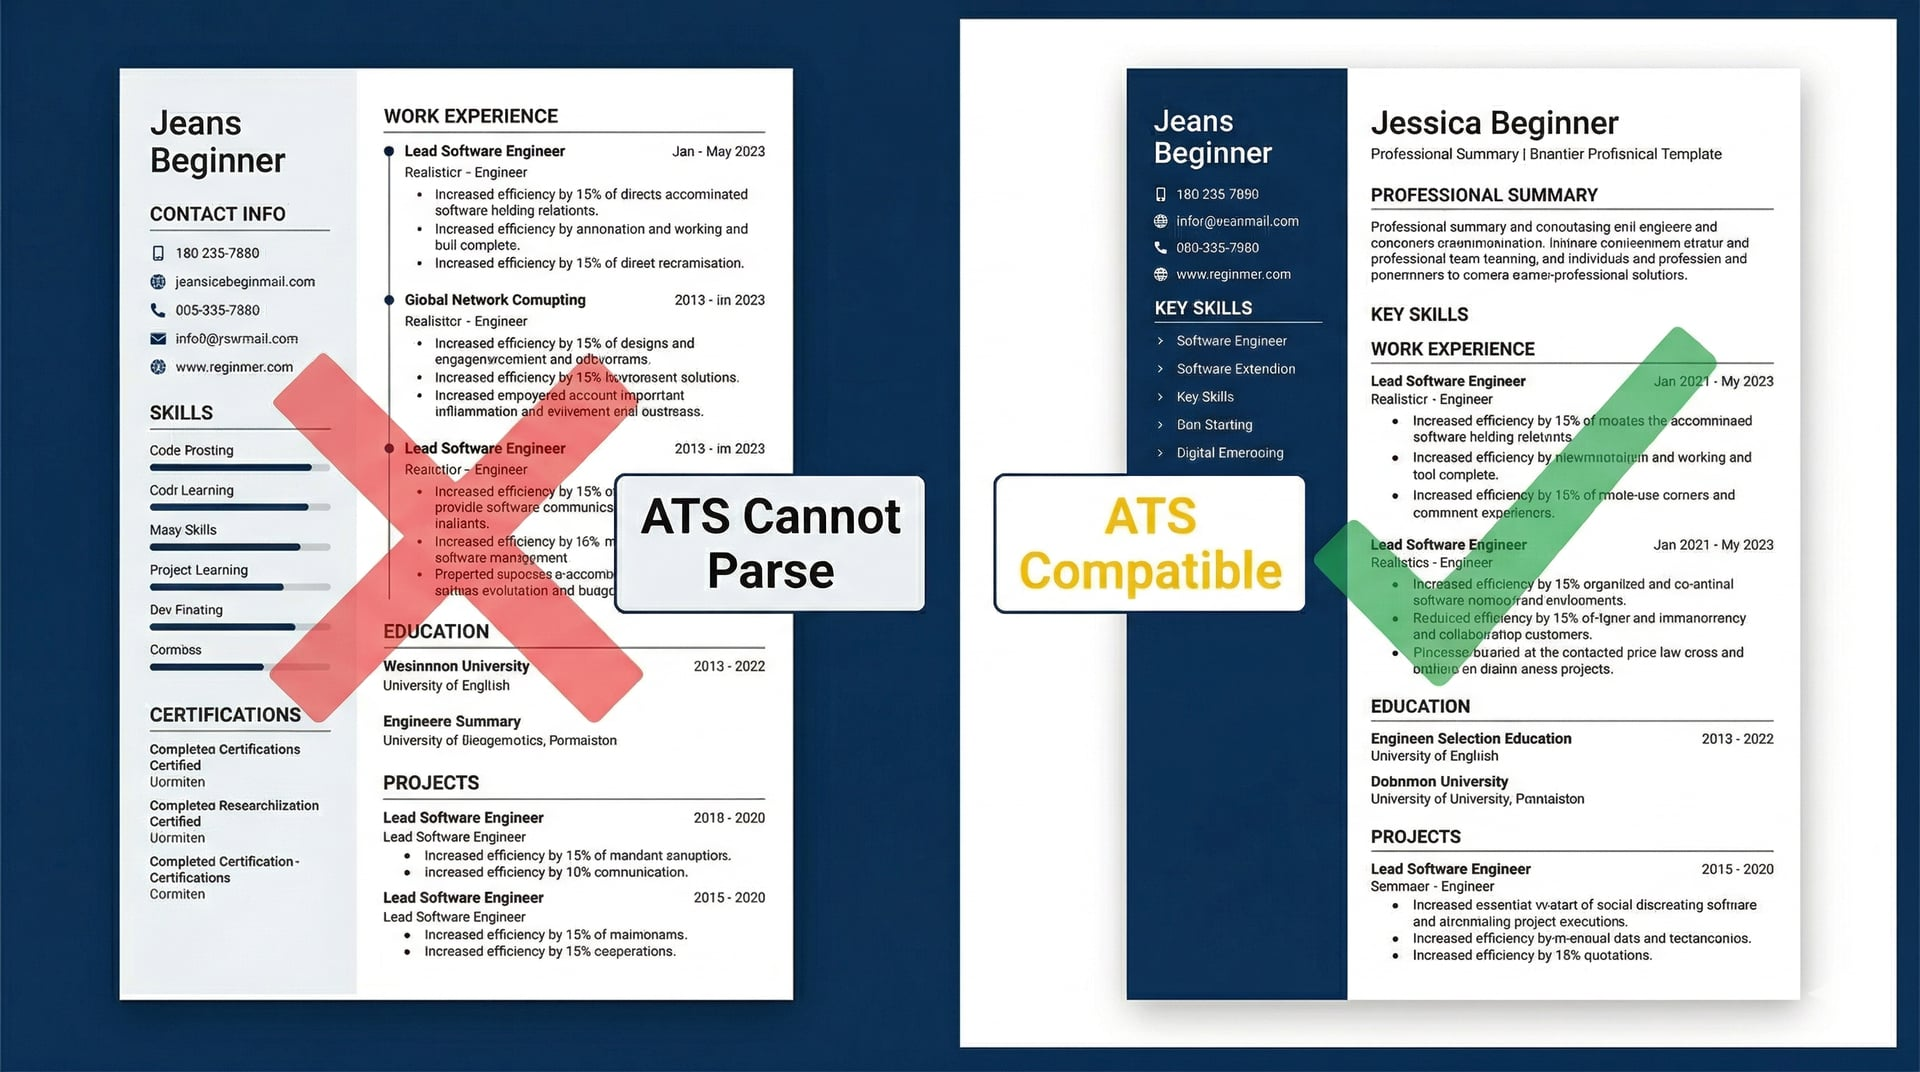
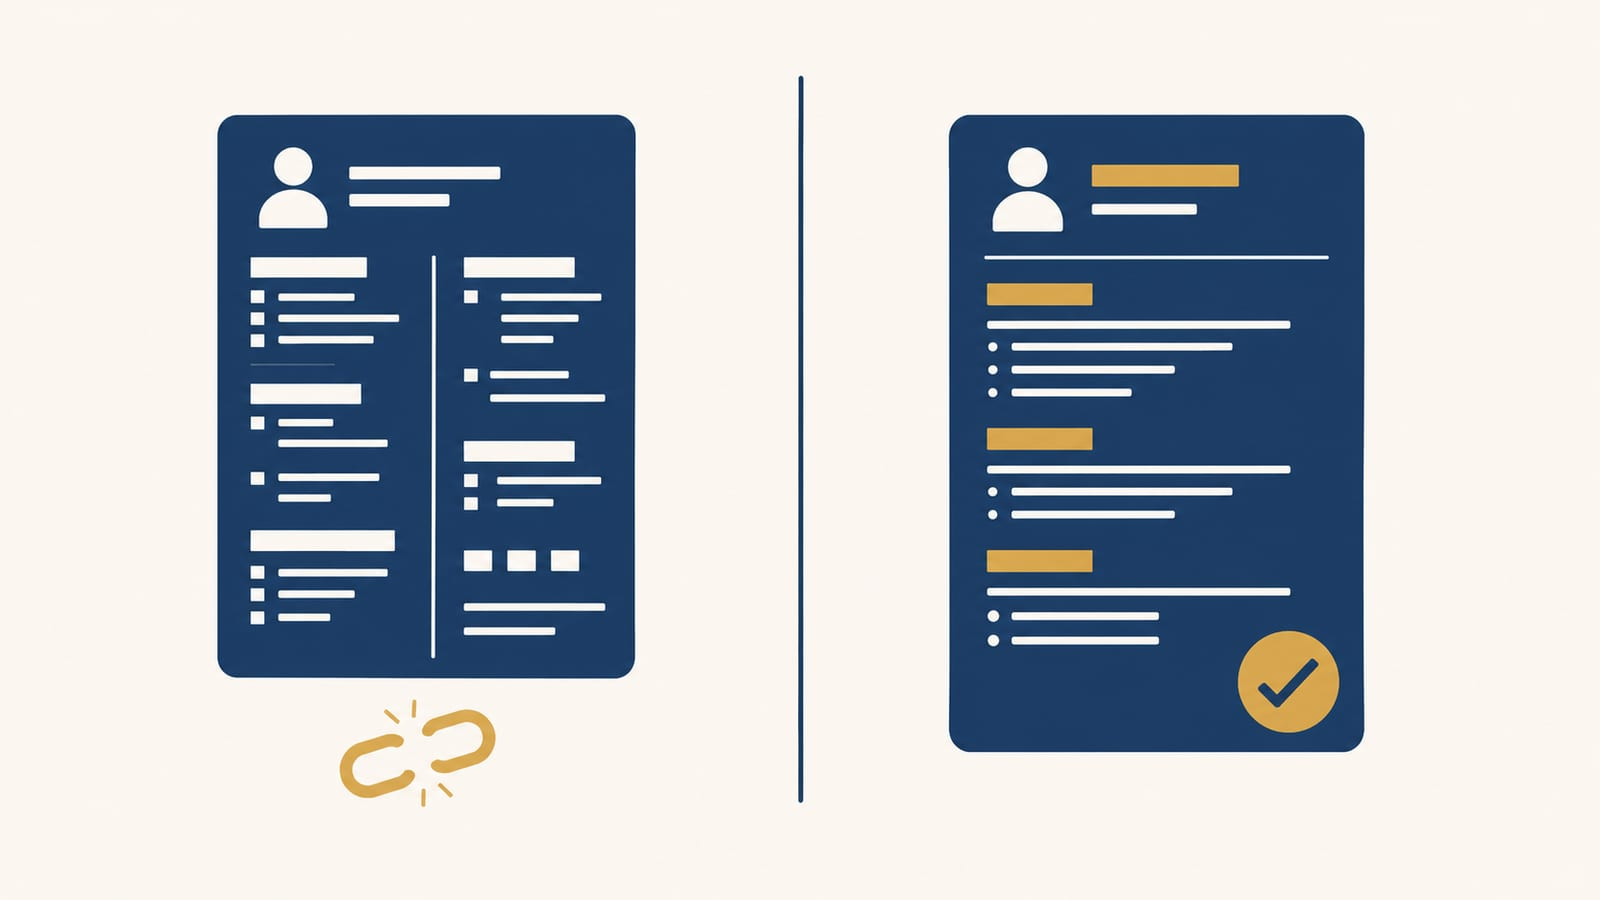
chore: refresh ATS resume blog images

diff --git a/docs/blog-image-brand-refresh-tracker.md b/docs/blog-image-brand-refresh-tracker.md
@@ -19,7 +19,7 @@ Shared style for replacement images:
 | Done | `smart-job-feed-ai-curated-daily-jobs` | `/blog/smart-job-feed-cover.jpg` | 4 | Already refreshed in GPT Image-2 brand style. |
 | Done | `follow-up-email-after-job-application` | `/blog/follow-up-email-cover.jpg` | 4 | Replaced cover plus 4 inline legacy chart/timeline/screenshot/waiting visuals with GPT Image-2 brand illustrations. |
 | Done | `how-to-tailor-resume-to-job-description` | `/blog/resume-tailoring-cover.jpg` | 5 | Replaced cover plus 5 inline legacy diagram/chart/manual-vs-AI visuals with GPT Image-2 brand illustrations. |
-| Todo | `ats-resume-format-guide-2026` | `/blog/ats-resume-cover.jpg` | 5 | Replace technical diagrams with cleaner visual metaphors. Likely cover + 4 inline illustrations. |
+| Done | `ats-resume-format-guide-2026` | `/blog/ats-resume-cover.jpg` | 5 | Replaced cover plus 5 inline parser/layout/checklist/keyword/manual-vs-AI visuals with GPT Image-2 brand illustrations. |
 | Todo | `ai-cover-letter-generator-how-it-works` | `/blog/ai-cover-letter-cover.jpg` | 4 | Replace flow/structure/chart images. Likely cover + 3 inline illustrations. |
 | Todo | `best-ai-job-application-tools-2026` | `/blog/ai-tools-comparison-cover.jpg` | 3 | Replace matrix/speed/decision-tree with brand-safe abstractions. Likely cover + 3 inline illustrations. |
 | Todo | `how-long-to-apply-for-job-2026` | `/blog/time-comparison-chart.jpg` | 4 | Current cover duplicates inline time chart. Replace with dedicated cover + 3 inline illustrations. |
@@ -31,8 +31,8 @@ Shared style for replacement images:
 
 1. Done: `follow-up-email-after-job-application`
 2. Done: `how-to-tailor-resume-to-job-description`
-3. Next: `ats-resume-format-guide-2026`
-4. `ai-cover-letter-generator-how-it-works`
+3. Done: `ats-resume-format-guide-2026`
+4. Next: `ai-cover-letter-generator-how-it-works`
 5. `best-ai-job-application-tools-2026`
 6. `how-long-to-apply-for-job-2026`
 7. `what-is-a-master-cv`
